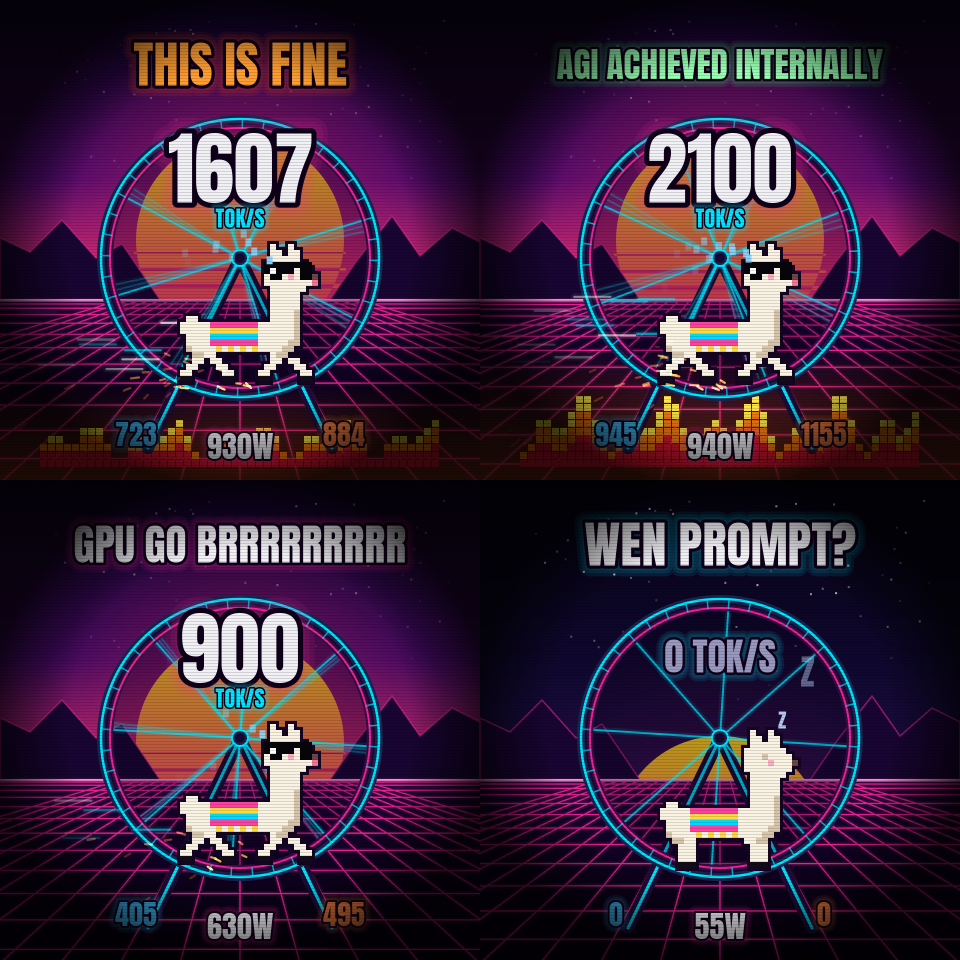
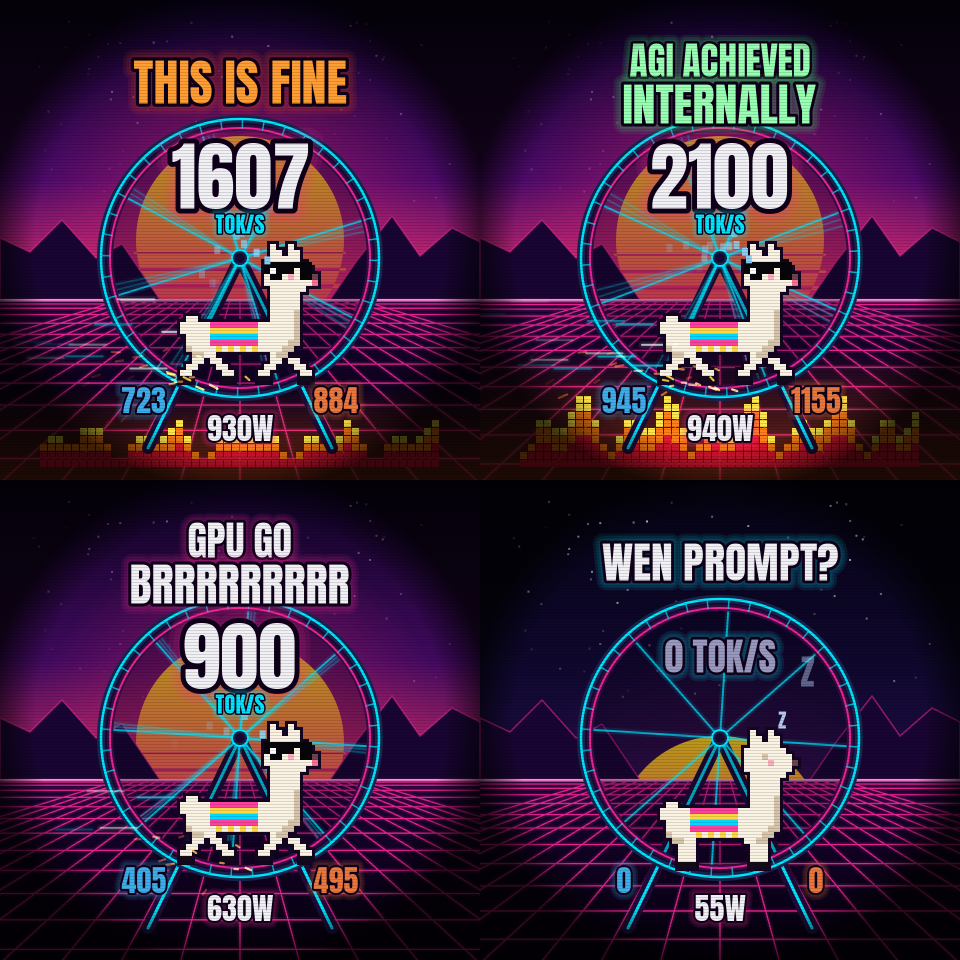
brrr: keep captions inside the round screen
Long captions now split onto two lines (GPU GO / BRRRR, AGI ACHIEVED /
INTERNALLY) and centered text is fitted to the circle's width at its
height, so nothing is clipped at the rim. Per-server tok/s moved inward
and the vignette softened so edge text stays bright.

Claude-Session: https://claude.ai/code/session_015nAWjnqqZVdKSvbNr6PTTx

diff --git a/c/brrr.c b/c/brrr.c
@@ -547,10 +547,23 @@ static void text_path_centered(cairo_t *cr, const char *font, double x, double y
         *out_size = size;
 }
 
+/* Usable width of the round screen for text centered at y, cap height h, with a margin */
+static double chord_width(double y, double h)
+{
+    double c = SIZE / 2.0, r = SIZE / 2.0 - 22;          /* stay clear of the vignette at the rim */
+    double dy = fmax(fabs(y - h / 2 - c), fabs(y + h / 2 - c));
+    return dy >= r ? 0 : 2 * sqrt(r * r - dy * dy);
+}
+
 /* Meme text: neon glow, thick dark outline, bright fill */
 static void neon_text(cairo_t *cr, double x, double y, double size, double max_w, rgb fill, rgb glow, const char *s)
 {
     double sz;
+    if (fabs(x - SIZE / 2.0) < 1) {
+        double fit = chord_width(y, size * 0.8) - size * 0.3;     /* leave room for outline + glow */
+        if (fit > 0 && fit < max_w)
+            max_w = fit;
+    }
     text_path_centered(cr, CAPTION_FONT, x, y, size, max_w, s, &sz);
     cairo_set_line_join(cr, CAIRO_LINE_JOIN_ROUND);
     for (int k = 3; k >= 1; k--) {
@@ -875,43 +888,58 @@ static void render(cairo_t *cr, const stats *s, const shown_t *sh, double t)
         neon_text(cr, c, 176, 38, 220, (rgb){ 0.6, 0.6, 0.75 }, NEON_CYAN, "0 TOK/S");
     } else {
         snprintf(txt, sizeof(txt), "%.0f", tok);
-        neon_text(cr, c, 168, 80, 240, WHITE, NEON_PINK, txt);
-        neon_text(cr, c, 218, 22, 120, NEON_CYAN, NEON_CYAN, "TOK/S");
+        neon_text(cr, c, 176, 76, 240, WHITE, NEON_PINK, txt);
+        neon_text(cr, c, 224, 22, 120, NEON_CYAN, NEON_CYAN, "TOK/S");
     }
 
-    /* Caption */
-    if (caption_override) {
-        int agi = !strncmp(caption_override, "AGI", 3);
-        neon_text(cr, c, 64, 50, 330, agi ? (rgb){ 0.6, 1.0, 0.7 } : WHITE, agi ? (rgb){ 0.2, 1.0, 0.4 } : NEON_CYAN,
-                  caption_override);
-    } else if (asleep) {
-        neon_text(cr, c, 64, 50, 300, WHITE, NEON_CYAN, "WEN PROMPT?");
-    } else if (tok >= AGI_TOK && fmod(t, 9) >= 6) {
-        neon_text(cr, c, 64, 50, 330, (rgb){ 0.6, 1.0, 0.7 }, (rgb){ 0.2, 1.0, 0.4 }, "AGI ACHIEVED INTERNALLY");
-    } else if (tok >= HOT_TOK && fmod(t, 6) >= 3) {
-        neon_text(cr, c, 64, 50, 300, (rgb){ 1.0, 0.62, 0.2 }, (rgb){ 1.0, 0.3, 0.1 }, "THIS IS FINE");
-    } else {
-        int rs = 2 + (int)fmin(12, tok / 150);
-        char brr[32] = "BR";
-        for (int i = 0; i < rs && i < 28; i++)
-            strcat(brr, "R");
-        snprintf(txt, sizeof(txt), "GPU GO %s", tok < 300 ? "BRR" : brr);
-        neon_text(cr, c, 64, 50, 330, WHITE, NEON_PINK, txt);
+    /* Caption: long ones go on two lines so they stay big on a round screen */
+    {
+        const char *l1 = NULL, *l2 = NULL;
+        rgb fill = WHITE, glow = NEON_PINK;
+        char brr[32];
+        if (caption_override) {
+            if (!strncmp(caption_override, "AGI", 3)) {
+                l1 = "AGI ACHIEVED"; l2 = "INTERNALLY";
+                fill = (rgb){ 0.6, 1.0, 0.7 }; glow = (rgb){ 0.2, 1.0, 0.4 };
+            } else {
+                l1 = caption_override; glow = NEON_CYAN;
+            }
+        } else if (asleep) {
+            l1 = "WEN PROMPT?"; glow = NEON_CYAN;
+        } else if (tok >= AGI_TOK && fmod(t, 9) >= 6) {
+            l1 = "AGI ACHIEVED"; l2 = "INTERNALLY";
+            fill = (rgb){ 0.6, 1.0, 0.7 }; glow = (rgb){ 0.2, 1.0, 0.4 };
+        } else if (tok >= HOT_TOK && fmod(t, 6) >= 3) {
+            l1 = "THIS IS FINE";
+            fill = (rgb){ 1.0, 0.62, 0.2 }; glow = (rgb){ 1.0, 0.3, 0.1 };
+        } else {
+            int rs = tok < 300 ? 1 : 2 + (int)fmin(12, tok / 150);
+            strcpy(brr, "BR");
+            for (int i = 0; i < rs && i < 28; i++)
+                strcat(brr, "R");
+            l1 = "GPU GO"; l2 = brr;
+        }
+        if (l2) {
+            neon_text(cr, c, 60, 40, 300, fill, glow, l1);
+            neon_text(cr, c, 104, 46, 330, fill, glow, l2);
+        } else {
+            neon_text(cr, c, 82, 50, 330, fill, glow, l1);
+        }
     }
 
     /* Bottom: each server's tok/s either side of total watts */
     snprintf(txt, sizeof(txt), "%.0fW", total_w);
-    neon_text(cr, c, 446, 30, 110, WHITE, NEON_PINK, txt);
+    neon_text(cr, c, 428, 30, 110, WHITE, NEON_PINK, txt);
     snprintf(txt, sizeof(txt), "%.0f", s->tok_port[0]);
-    neon_text(cr, c - 104, 434, 28, 90, BLUE, BLUE, txt);
+    neon_text(cr, c - 96, 400, 30, 90, BLUE, BLUE, txt);
     snprintf(txt, sizeof(txt), "%.0f", s->tok_port[1]);
-    neon_text(cr, c + 104, 434, 28, 90, ORANGE, ORANGE, txt);
+    neon_text(cr, c + 96, 400, 30, 90, ORANGE, ORANGE, txt);
 
     /* CRT scanlines and a round vignette */
     cairo_set_source_surface(cr, scanlines, 0, 0);
     cairo_paint(cr);
     {
-        cairo_pattern_t *v = cairo_pattern_create_radial(c, c, 170, c, c, 250);
+        cairo_pattern_t *v = cairo_pattern_create_radial(c, c, 205, c, c, 252);
         cairo_pattern_add_color_stop_rgba(v, 0, 0, 0, 0, 0);
         cairo_pattern_add_color_stop_rgba(v, 1, 0, 0, 0, 0.75);
         cairo_set_source(cr, v);
